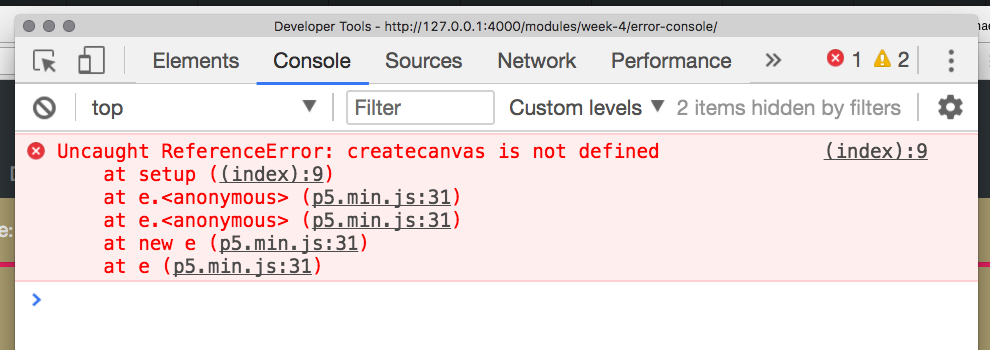
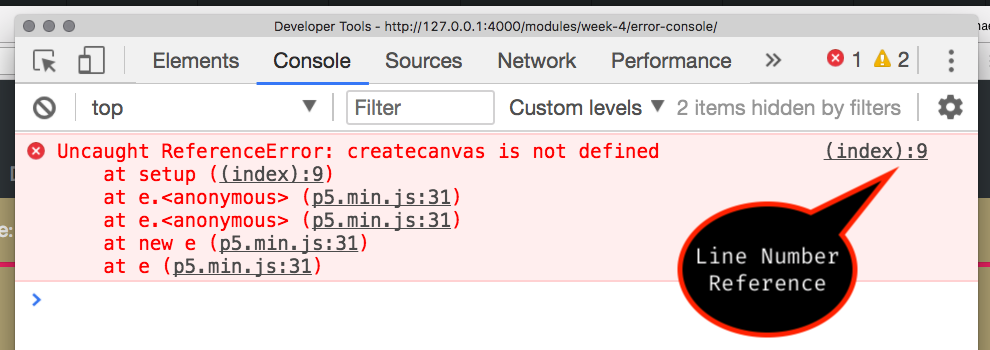
week 4 scrubbing

Changed region(s): [[0.6667, 0.4857, 0.9091, 0.9714]]

diff --git a/modules/week-4/_posts/2017-01-05-fill.md b/modules/week-4/_posts/2017-01-05-fill.md
@@ -20,7 +20,7 @@ Before we jump into functions to color shapes, we need to define the two parts o
 
 # Change The Interior Color with `fill()`
 
-To change the interior color of a shape, or the fill, we need to call the `fill()` function. Just like the `background()` function, we pass this function a color as parameters. When called, this function will cause the colors of every shape below it have their interiors filled with the specified color.
+To change the interior color of a shape, or the fill, we need to call the `fill()` function. Just like the `background()` function, we pass this function a color as parameter/s. When called, this function will change the fill color of every shape below it.
 
 > Just like `background()`, we will use "named color strings" with these new color functions. We will discuss 4 more ways to specify color on the next page.
 
@@ -69,9 +69,9 @@ In addition to setting the interior color with the `fill()` function, the interi
 
 - [`noFill()` reference page](https://p5js.org/reference/#/p5/noFill)
 
-The `noFill` function will leave a shape only with the border.
+The `noFill` function will cause a shape to only display its border.
 
-Since the `noFill()` function removes a shapes fill or interior color, there are no parameters to pass this function. Therefore, the parenthesis remain empty.
+Since the `noFill()` function removes a shape's fill or interior color, there are no parameters to pass this function. Therefore, the parenthesis remain empty.
 
 > NOTE: To fill subsequent shapes, below a no-fill shape, just call the `fill()` function again.
 
@@ -122,9 +122,9 @@ In addition to specifying the interior fill color, shapes can also have their bo
 
 - [`stroke()` reference page](https://p5js.org/reference/#/p5/stroke)
 
-Like the `fill()` and `background()` functions, for the moment, we will pass the `stroke()` function "named color strings" to specify color.
+Like the `fill()` and `background()` functions, for the moment, we will only pass the `stroke()` function "named color strings" to specify color.
 
-Also, like `fill()`, the `stroke()` function effects any shape objects that are below it. However, it can be overwritten by specifying new `stroke()` statements.
+Also, like `fill()`, the `stroke()` function effects any shape objects below it. However, it can be overwritten by specifying new `stroke()` statements.
 
 In the below example, we remove the fill of the first two shapes, so that the stroke color can be seen more clearly.
 
@@ -166,7 +166,7 @@ ellipse( 250, 250, 280, 130 );
 
 # Specifying the Size of Stroke with `strokeWeight()`
 
-As is clearly seen in the above example, the default stroke or border for shapes is only 1px in width. Many times, when specifying stroke to have well defined border, it will also be desirable to specify that the border be wider. This can be accomplished with the `strokeWeight()` function.
+As is clearly seen in the above example, the default stroke or border for shapes is only 1px in width. It will often be desirable to specify a wider border to make shapes more distinguishable. This can be accomplished with the `strokeWeight()` function.
 
 - [`strokeWeight()` reference page](https://p5js.org/reference/#/p5/strokeWeight)
 
@@ -226,9 +226,9 @@ point( 185, 220 );
 
 | [**[ Code Download ]**](https://github.com/Montana-Media-Arts/120_CreativeCoding/raw/master/lecture_code/04/06_stroke_02/06_stroke_02.zip) | [**[ View on GitHub ]**](https://github.com/Montana-Media-Arts/120_CreativeCoding/raw/master/lecture_code/04/06_stroke_02/) | [**[ Live Example ]**](https://montana-media-arts.github.io/120_CreativeCoding/lecture_code/04/06_stroke_02/) |
 
-> The stroke weight is not bound by the "size" of an object. In other words, half other stroke's width will be inside where the size of the object specifies the outer edge, and the other half will be outside.
+> The stroke weight is not bound by the "size" of an object. The size specifies the size of the "filled" portion of the object. The middle of stroke/border then splits this point.  In other words, half of the stroke's width will be inside an object's specified edge, and the other half will be outside.
 >
-> This means that if you set an `ellipse()` to have a width of 20px, for example. And specify it also has a stroke weight of 10px. The total width of the ellipse will actually be 30px (20px + 10px).
+> This means that if you set an `ellipse()` to have a width of 20px, for example. And specify it also has a stroke weight of 10px. The total width of the ellipse will actually be 30px (5px + 20px + 5px).
 
 # Shapes Without Borders, Using `noStroke()`
 

diff --git a/modules/week-4/_posts/2017-01-03-arc-unit-circle.md b/modules/week-4/_posts/2017-01-03-arc-unit-circle.md
@@ -6,7 +6,7 @@ jotted: true
 
 # `arc()` and Reviewing the Unit Circle
 
-I want to go over one more 2D Primitive Shape function with you. This is because it allows us the opportunity to discuss the "Unit Circle". The function is `arc()`. This function, as you will read, is used to draw, partial circles.
+I want to specifically go over one more 2D Primitive Shape function with you. This is because it allows us the opportunity to discuss the "Unit Circle". The function is `arc()`. This function, as you will read, is used to draw, partial circles.
 
 - [`arc()` function documentation](https://p5js.org/reference/#/p5/arc)
 
@@ -24,7 +24,7 @@ Before we can discuss the `start` and `end` positions, we first need to review t
 
 ## Radians & a little bit of the Unit Circle
 
-We are going to need to start thinking about rotation, and angles this week. In p5, all angles are specified in "radians" as opposed to "degrees".
+We are going to need to start thinking about rotation, and angles this week. By default, in p5, all angles are specified in "radians" as opposed to "degrees".
 
 #### Radians
 
@@ -43,7 +43,7 @@ The following figure shows the relationship between degrees and radians around t
 
 There are number of important take-aways from the above video and figure.
 
-1. You must remember, that 0-rad/0° is at the right side of the unit circle, whe  ℸre 3 o'clock is on a clock's face.
+1. You must remember, that 0-rad/0° is at the right side of the unit circle, where 3 o'clock is on a clock's face.
 2. 2∏  and 0 are at the same place. 2∏ signifies an entire rotation around the unit circle.
 3. It is quite easy to convert between radians and degrees.
 
@@ -112,7 +112,6 @@ Following from the above example, let's now make a small slice of pie, that is o
 arc( 300, 200, 300, 300, QUARTER_PI, HALF_PI );
 ```
 
-Which would result in;
 
 <div class="displayed_jotted_example">
 <div id="jotted-demo-2" class=""></div>
@@ -137,11 +136,11 @@ new Jotted(document.querySelector("#jotted-demo-2"), {
 
 # Using Degrees Directly With `radians()`
 
-It is possible to convert between degrees and radians with a simple mathematical formula, as was discussed in the above video. I also truly believe it is important for you to practice specifying angles using radians, as this will come up quite often within p5 and a lot of creative coding applications.
+It is possible to convert between degrees and radians with a simple mathematical formula, as was discussed in the above video. I believe it is important for you to practice specifying angles using radians, as this will come up quite often within p5 and a lot of other creative coding applications.
 
 However, if you would instead like to use degrees to specify angles, you can do so by passing the degree number to a function that will convert from degrees to radians. You can then pass the output of this function directly to any function parameter that requires an angle in radians.
 
-This function is `radians()`, which takes as its sole parameter a number representing degrees, and returns the equivalent angle in radians.
+This function is `radians()`, which takes as its sole parameter, a number representing degrees. This then returns the equivalent angle in radians.
 
 So, for example, we could specify a pie slice, like in the above example, by passing a degree value to the `radians()` function, which we would pass directly to the angle parameters of the `arc()` function.
 
@@ -183,7 +182,7 @@ To set the specific draw mode of the `arc()` function, we must use another "envi
 
 To demonstrate, let's draw an arc that goes from `HALF_PI` or 6 o'clock, to `0` or 3 o'clock. (This is essentially the inverse of our first example.)
 
-We will also draw these next two each other, with the default `PIE` version on the left. To do this, we will only change the x-location parameter, between the two arcs.
+We will also draw these next two each other, with the default `PIE` version on the left. To do this, we will only change the x-location parameter, and the drawing mode, between the two arcs.
 
 ```js
 arc( 150, 200, 180, 180, HALF_PI, 0, PIE );

diff --git a/modules/week-4/_posts/2017-01-13-color.md b/modules/week-4/_posts/2017-01-13-color.md
@@ -7,13 +7,13 @@ jotted: true
 
 # Introduction to Color
 
-Last week, we introduced and discussed the `background()` function. We have also looked at how you can color shapes using the `fill()` and `stroke()` functions. Now that you have had some practice using these, and specifying color using "named color strings", let's talk a little more about how you can specify colors more specifically in p5.
+Last week, we introduced and discussed the `background()` function. We have also looked at how you can color shapes using the `fill()` and `stroke()` functions. Now that you have had some practice using these, and specifying color using "named color strings", let's talk a little more specifically about how you can specify colors in p5.
 
 
 
 ## Specifying Color
 
-As you saw from the `background()` function documentation page, there are numerous ways to specify color. We have already presented one; "Named Color Strings". Now let's look at three more possibilities;
+As you saw from the [`background()` function documentation page](https://p5js.org/reference/#/p5/background), there are numerous ways to specify color. We have already presented one; "Named Color Strings". Now let's look at three more possibilities;
 
 - Grayscale
 - RGB
@@ -22,9 +22,9 @@ As you saw from the `background()` function documentation page, there are numero
 
 # Grayscale
 
-Grayscale includes colors that are 'white', 'black', and shade of gray in between.
+Grayscale includes colors that are 'white', 'black', and any shade of gray in between.
 
-To specify a grayscale color value in p5, the developer needs to provide a single value, as a parameter to any of the color-based functions we have so far looked at, between `0` (black) and `255` (white). This is for a total of 256 grayscale color values.
+To specify a grayscale color value in p5, the developer needs to provide a single value, as a parameter to any of the color-based functions we have looked at, between `0` (black) and `255` (white). This is for a total of 256 grayscale color values.
 
 
 > In a 0-based system, '0' counts as a value.
@@ -33,7 +33,7 @@ To specify a grayscale color value in p5, the developer needs to provide a singl
 > 256 values is no coincidence. This represents 8 bits (i.e. 8, 1's or 0's - `0000 0000`).<br>
 > 2 to the power of 8 equals 256. (2<sup>8</sup> = 256)
 >
-> Since computers store data in some number of bits, you will often see max numbers, or number ranges, that correspond to some number of 2<sup> number of bits</sup>.
+> Since computers store data in some number of bits, you will often see max numbers, or number ranges, that correspond to some number of 2<sup>number of bits</sup>.
 
 ```js
 // specify no stroke for all shapes
@@ -140,13 +140,13 @@ function setup() {
 
 
 
-Many functions that take color values in p5, will also, more simply, accept three integers as input parameters, representing the RGB values.
+Many functions that take color values in p5, will also, more simply, accept three integers as input parameters, representing the RGB value.
 
 The below code achieves the same as above, without the use of the additional `'rgb()'` function.
 
 **{ TODO: }** Replace one of the integer values in the below code example. Remember to use integers between 0-255.
 
-> As a reminder, to play with code on this website, in the below code example section, click on the "JavaScript" tab, change the code, then click back to the "Result" tab.
+> As a reminder, to play with code on this website, simply change the values in the code below and look to the result section to see the difference.
 
 {% highlight js linenos %}
 function setup() {

diff --git a/modules/week-4/_posts/2017-01-21-rotate.md b/modules/week-4/_posts/2017-01-21-rotate.md
@@ -13,7 +13,7 @@ The next transformation function we will look at is `rotate()` which, rotates a 
 <br />
 
 
-Just like the `arc()` function, this function expects angles to specified in radians. This means you can pass in values based off of ∏, or can use the `radians()` function to convert degree values to radian values.
+Just like the `arc()` function, this function expects angles to be specified in radians. This means you can pass in values based off of ∏, or can use the `radians()` function to convert degree values to radian values.
 
 The following example, shows the same grid from the last page. This grid is shown being rotated 15°, around the (x:0, y:0) point.
 
@@ -30,7 +30,7 @@ This means that if we had a rectangle drawn at (x:50, y:50), it would also be ro
 <br />
 
 
-Since the rotate function, rotates around the (x:0, y:0) point of the grid, if we call the translate function first, then rotate will occur around this new point. Therefore, if we translated (x:0, y:0) to the center of the canvas first, then rotated, the rectangle would be rotated around the center of the canvas.
+The rotate function, rotates around the (x:0, y:0) point of the grid. Therefore, if we call the translate function first, the rotation will occur around this new point. If we translated (x:0, y:0) to the center of the canvas first, then rotated, the rectangle would be rotated around the center of the canvas.
 
 ```js
 // assuming a canvas of (width:400, height:400)
@@ -66,13 +66,13 @@ rect( 50, 50, 50, 50 );
 
 # Rotating Smiley Faces
 
-Let's no use rotate to rotate a number of smiley faces in a canvas. Again, in the example code, we will replace the code for the smiley faces with a stand-in function `smiley()`. To see all of the code, view or download the code result output further down.
+Let's now use the rotate function to rotate a number of smiley faces on a canvas. Again, in the example code, we will replace the code for the smiley faces with a stand-in function `smiley()`. To see all of the code, view or download the code result output further down.
 
 This will work quite nice, as we have built our smiley face around (x:0, y:0). Therefore, the smiley will rotate in place, dependent on the most recent translate.
 
-In the following example, after the first smiley face is place, each subsequent smiley face is translated by `translate(75,75);`, and rotated by `rotate( radians(45) );`.
+In the following example, after the first smiley face is placed, each subsequent smiley face is translated by `translate(75,75);`, and rotated by `rotate( radians(45) );`.
 
-Since rotate changes the orientation of the grid, when we call translate a second time, the grid is translated in relation to the new angle of rotation. This occurs 8 times, which results in a circle of smiley faces. The image below shows they 8 smileys, with a single set of grid lines behind each one, to demonstrate the "center" of the grid at that moment.
+Since rotate changes the orientation of the grid, when we call translate a second time, the grid is translated in relation to the new angle of rotation. This occurs 8 times, which results in a circle of smiley faces. The image below shows the 8 smileys, with a single set of grid lines behind each one, to demonstrate the "center" of the grid at that moment.
 
 > Just like `translate()`, the `rotate()` function is cumulative. This means if you call rotate twice, these will add together.
 

diff --git a/modules/week-4/_posts/2017-02-01-homework.md b/modules/week-4/_posts/2017-02-01-homework.md
@@ -16,6 +16,10 @@ This assignment is your first chance to really dig into programming with p5. It 
 
 To work on this assignment, I would proceed as follows;
 
+- Play, play play.
+
+Play a whole bunch before starting in earnest this week. Give yourself time to make silly drawings and explore how all of the functions introduced work. Then;
+
 1. Make sure you have worked through all of the past two weeks content, explored the examples, played with them in the browser, and studied the code links.
 2. Physically sketch a monster-portrait or self-portrait.
 3. In the top level of your Repo, duplicate the `empty-project/` directory, labelling it `hw-4/`.
@@ -98,16 +102,16 @@ function draw() {
 }
 ```
 
-> This work-process is one we will discuss often throughout the semester. Essentially, the above code structure helps your break this **BIG PROBLEM** into smaller _sub-problems_. This is done by identifying each sub-section of the code ahead of time, and working just on each sub-section. You of course could go even further, breaking the "body" into addition sub-sections/sub-problems.
+> This work-process is one we will discuss often throughout the semester. Essentially, the above code structure helps your break this **BIG PROBLEM** into smaller _sub-problems_. This is done by identifying each sub-section of the code ahead of time, and working just on each sub-section. You of course could go even further, breaking the "body" into additional sub-sections/sub-problems.
 
 
 After breaking the code into sub-sections, start to work on each section, remembering to check your work often in the browser.
 
-You should also make frequent commits in your repository as you make incremental progress (i.e. after finishing the main structure, after completeing the body, etc. )
+You should also make frequent commits in your repository as you make incremental progress (i.e. after finishing the main structure, after completing the body, etc. )
 
 ## Be Gentle on Yourself
 
-This homework will take quite a bit of time. Give yourself plenty of time to do it. You should also be gentle on yourself. There is no point in beating yourself up when you get stuck. _You will get stuck._ Just play around, be methodical in your approach; check the error console in your browser, ask colleagues for help, post to issues, board, [take advantage of the lab, and come to my office hours](https://montana-media-arts.github.io/creative-coding-1/instructor
+This homework will take quite a bit of time. Give yourself plenty of time to do it. You should also be gentle on yourself. There is no point in beating yourself up when you get stuck. **_You will get stuck! How Exciting!_** Just play around, be methodical in your approach; check the error console in your browser, ask colleagues for help, post to the issues board, [take advantage of the lab, and come to my office hours](https://montana-media-arts.github.io/creative-coding-1/help/)
 
 Be gentle on yourself, this process takes time, lots of energy, and lots more time.
 
@@ -117,4 +121,4 @@ When you have finished with your portrait, you should;
 
 - write your weekly readme,
 - upload your code to GitHub,
-- add you links to the [HW-4 Wiki Page](https://github.com/Montana-Media-Arts/120_CreativeCoding/wiki/HW-4)
+- add you links to the HW-4 homework submission forum via Moodle

diff --git a/modules/week-4/_posts/2017-01-02-drawing.md b/modules/week-4/_posts/2017-01-02-drawing.md
@@ -158,7 +158,7 @@ In the following sketch, we create;
 - color the background of the canvas a light blue
 - place a single point at ( x: 100, y: 50 )
 
-> NOTE: This point is a single pixel in size, so it more than likely looks like a little spec of dust on your screen.
+> NOTE: This point, by itself would be a single pixel in size. So I am including an additional function `strokeWeight()`, so that it appears larger in the example.
 
 
 ```js
@@ -168,6 +168,7 @@ function setup() {
 }
 
 function draw() {
+    strokeWeight(10);
     point( 100, 50 );
 }
 ```
@@ -198,7 +199,7 @@ function draw() {
 
 > What if you wanted to create more than one point? What do you think you would do?
 
-To create more than one shape on a canvas, we simply need to write more commands that create more shapes. Following from the p5 `point()` documentation example; if we wanted to create 4 points, on the corners of a square, we would need to write 4 commands, each invoking the `point()` function with different locations for input parameters.
+To create more than one shape on a canvas, we simply need to write more commands that create more shapes. Following from the p5 `point()` documentation example; if we wanted to create 4 points, on the corners of a square, we would need to write 4 statements, each invoking the `point()` function with different locations for input parameters.
 
 The following code demonstrates drawing four points, with each point on the corner of a square.
 
@@ -251,7 +252,7 @@ Another useful shape function, and one similar in behavior to the `ellipse()` is
 
 <br />
 
-Just like the `ellipse()`, the `rect()` function can be invoked using 4 parameters;
+Just like `ellipse()`, the `rect()` function can be invoked using 4 parameters;
 
 - `x` - A number representing the x-coordinate of the rectangle. (By default, this is the top-left corner)
 - `y` - A number representing the y-coordinate of the rectangle. (By default, this is the top-left corner)
@@ -302,7 +303,7 @@ function draw() {
 
 As you hopefully also notice on the `rect()` function reference page, this function can accept a total of 4, 5, or 8 input parameters.
 
-When 5 input parameters are present, p5 expects last parameter to be a number describing how "round" to make the corners of the resulting rectangle. This value represents the number of pixels to go in on each corner.
+When 5 input parameters are present, p5 expects the last parameter to be a number describing how "round" to make the corners of the resulting rectangle. This value represents the number of pixels of rounding on each corner.
 
 Below are rectangles with varying amounts of corner roundness.
 
@@ -338,7 +339,7 @@ rect( 20, 240, 300, 200, 90 );
 
 <br />
 
-When 8 input parameters are present, the last 4 parameters each describe a roundness of a corner of the rectangle. The 5th parameter describes the top-left corner. The subsequent parameters describe the remaining corners clock-wise from the top-left.
+When 8 input parameters are present, the last 4 parameters each describe a roundness of a corner of the rectangle. The 5th parameter describes the top-left corner. The subsequent parameters describe the remaining corners, clock-wise from the top-left.
 
 ```js
 // a rectangle with various corner roundness

diff --git a/modules/week-4/_posts/2017-01-25-order-of-operations.md b/modules/week-4/_posts/2017-01-25-order-of-operations.md
@@ -10,7 +10,7 @@ Order of operations matters greatly in code. As has already been demonstrated wi
 
 For example, when we created the smiley face for the transformation pages, the order that we specify various shapes is critical. This is because, with shapes, the last shape is the one placed on top of the previous shapes. Since we want our smiley face to have a mouth and eyes, it is critical that those are placed **after** the statement to draw the head.
 
-Likewise, in order to make the head "yellow" we must place the appropriate `fill('yellow');` function before the head is drawn. Likewise, we have to place the `fill('black');` function after the head is drawn and before the eyes/mouth are drawn in order for those elements to be colored correctly.
+Likewise, in order to make the head "yellow" we must place the appropriate `fill('yellow');` function before the head is drawn. Also, we have to place the `fill('black');` function after the head is drawn and before the eyes/mouth are drawn in order for those elements to be colored correctly.
 
 Let's take a look at two examples of the smiley face. In both cases, we will add an alpha value to the head color, so that we can see if something gets placed behind it. In the first example, we will try to draw the eyes and mouth first, and notice that they are 'covered' by the head. Whereas, in the second version, all is as expected.
 
@@ -85,7 +85,7 @@ ellipse( 20, -15, 20 );
 <br />
 
 
-Likewise, remember how the `rotate()` function rotates _around_ the (x:0, y:0) point on the grid, that is why it is critical that rotate typically comes _after_ translate. Otherwise, you are likely to rotate your shapes **_OFF_** the canvas.
+Remember how the `rotate()` function rotates _around_ the (x:0, y:0) point on the grid, that is why it is critical that rotate typically comes _after_ translate. Otherwise, you are likely to rotate your shapes **_OFF_** the canvas.
 
 > Note: If you are using `rotate()` and can't see your shapes, check your order of operations, there is a good chance you "rotated" your image off the canvas.
 
@@ -94,4 +94,4 @@ Also, the scale function, changes the grid layout, therefore, it is important th
 <br />
 
 
-Your homework this week asks you draw a portrait (more to come later). In creating this sketch, you will need to think carefully about order of operations for your functions. Both for transformations, and shape placement.
+Your homework this week asks you draw a portrait (more to come later). In creating this sketch, you will need to think carefully about order of operations for your statements. Both for transformations, and shape placement.

diff --git a/modules/week-4/_posts/2017-01-22-scale.md b/modules/week-4/_posts/2017-01-22-scale.md
@@ -6,7 +6,7 @@ jotted: true
 
 # Scaling with `scale()`
 
-Another transformation that will be useful for you is the scale function (`scale()`). This function scales (proportionally grows or shrinks) the grid and subsequent shapes underneath it.
+Another transformation that will be useful for you is the scale function (`scale()`). This function scales (proportionally grow or shrink) the grid and subsequent shapes underneath it.
 
 - [`scale()` reference](https://p5js.org/reference/#/p5/scale)
 
@@ -15,7 +15,7 @@ Another transformation that will be useful for you is the scale function (`scale
 
 Hopefully, this function is rather self-evident in how it can be used. The most important part to recognize initially, is that the expected input parameter is a decimal value (or "float"), where `1.0` = 100% or no change. Hence, `0.5` = 50%, and `2.0` = 200%.
 
-To demonstrate it, we will use the same smiley face code from the past few pages. This smiley face is presented four time, once at its "normal" or unscaled size; a second time much larger, at 200%; a third time at 50%, which returns the size to "normal"; the last time we scale by 50% again, to create a "half-size" version.
+To demonstrate this, we will use the same smiley face code from the past few pages. This smiley face is presented four times, once at its "normal" or unscaled size; a second time much larger, at 200%; a third time at 50%, which returns the size to "normal"; the last time we scale by 50% again, to create a "half-size" version.
 
 
 ```js
@@ -113,7 +113,7 @@ smiley();
 
 The last thing that you should know about the `scale()` function, is that it will also accept negative values for its scale parameters. When negative values are provided, the grid is flipped around the axis in question.
 
-For example, we can flip the second smiley face, in the below example, upside-down by providing a negative number to the y-axis parameter.
+For example, we can flip the second smiley face, in the below example, upside-down, by providing a negative number to the y-axis parameter.
 
 ```js
 // scale the x-axis by 250%

diff --git a/modules/week-4/_posts/2017-01-30-error-console.md b/modules/week-4/_posts/2017-01-30-error-console.md
@@ -11,7 +11,7 @@ jotted: true
 
 This week you are going to be asked to complete your first significant homework assignment for this course. One thing, you will almost certainly run into, are syntax issues, or mis-naming issues, that literally "**_break_**" your code. This will result in nothing showing up in your browser window. When this happens, you need to know how to find the problem, so you can try and fix it.
 
-To do this, you will most likely want to leverage your browsers JavaScript Console (just "console" from now). The console, displays errors, warnings, and other information that a developer tells it to. (more on that last one next week).
+To do this, you will most likely want to leverage your browsers JavaScript Console (just "console" from now). The console, displays errors, warnings, and other information that a developer tells it to.
 
 ## Opening the Console
 
@@ -101,9 +101,8 @@ In this case, we see there is a reference to line `:9`. At the very minimum, thi
 
 Now, down below;
 
-- open the "JavaScript" tab from the "Results" navigation bar.
-- fix the error, by changing `createcanvas(` to `createCanvas(`.
-- Go back to the "Result" tab, and you should now see a canvas with a blue background.
+- fix the error, by changing line 9, `createcanvas(`, to `createCanvas(`.
+- You should now see a canvas with a blue background.
 
 
 <div class="displayed_jotted_example">

diff --git a/modules/week-4/_posts/2017-01-20-translate.md b/modules/week-4/_posts/2017-01-20-translate.md
@@ -161,7 +161,7 @@ And the live example, with full code would look like...
 
 One of the qualities about transformation functions, is that the are additive or compound. This means that they will add together.
 
-So for example, if you specify a translate function of `translate( 40, 40 )`, and later in your code specify another translate of `translate( 30, 30 )`, everything below that second translate will actually be moved to be based off of (x:70, y:70). This is because ( x:40, y: 40 ) + ( x:30, y:30 ) = ( x: 70, y: 70 ).
+So for example, if you specify a translate function of `translate( 40, 40 )`, and later specify another translate of `translate( 30, 30 )`, everything below that second translate will actually be translated by (x:70, y:70). This is because ( x:40, y: 40 ) + ( x:30, y:30 ) = ( x: 70, y: 70 ).
 
 Notice in the following code, that each smiley is moved further with each translate. (the smiley, for purposes of brevity, will be represented by `smiley()` in the below code example. Please look at the JavaScript tab of the Results section for the full code.)
 

diff --git a/modules/week-4/_posts/2017-01-14-alpha-color.md b/modules/week-4/_posts/2017-01-14-alpha-color.md
@@ -6,7 +6,7 @@ jotted: true
 
 # Alpha Values in Color<br />(Making things see-through)
 
-It is also possible to specify the alpha value for any color in p5. Specifying an alpha value for color function, allows other objects behind the shape to be seen. In other words, it makes a shape "see through".
+It is also possible to specify the alpha value for any color in p5. Specifying an alpha value for a color function allows other objects behind the shape to be seen. In other words, it makes a shape "see through".
 
 The alpha value is most easily used in conjunction with grayscale and rgb color values.
 
